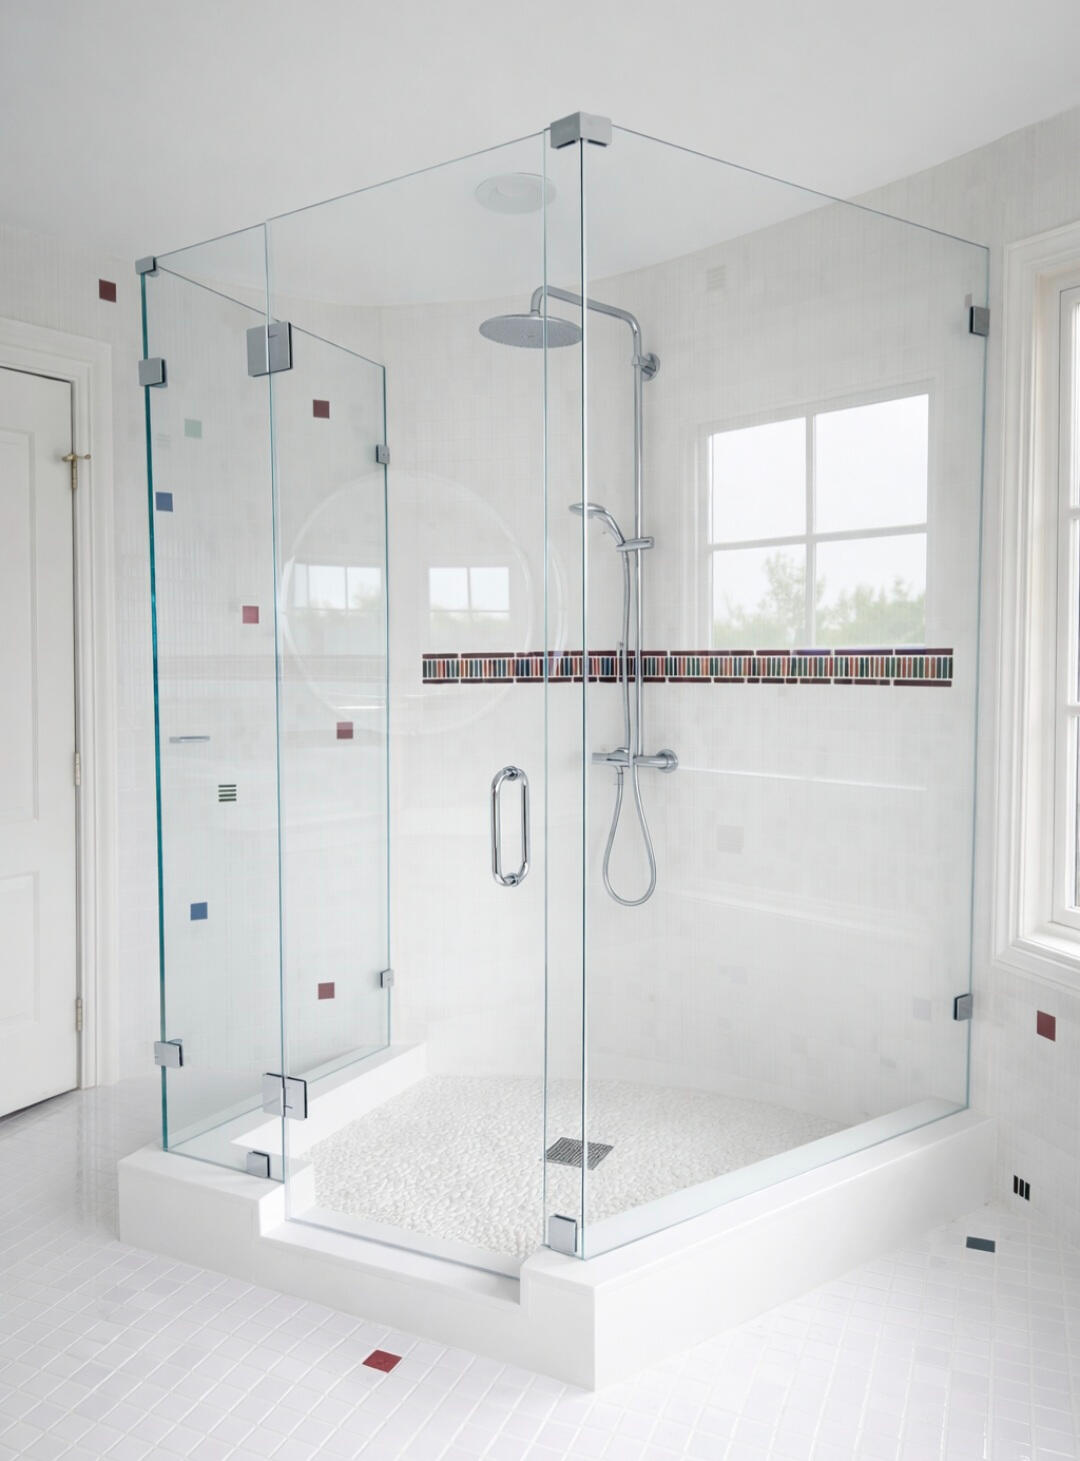
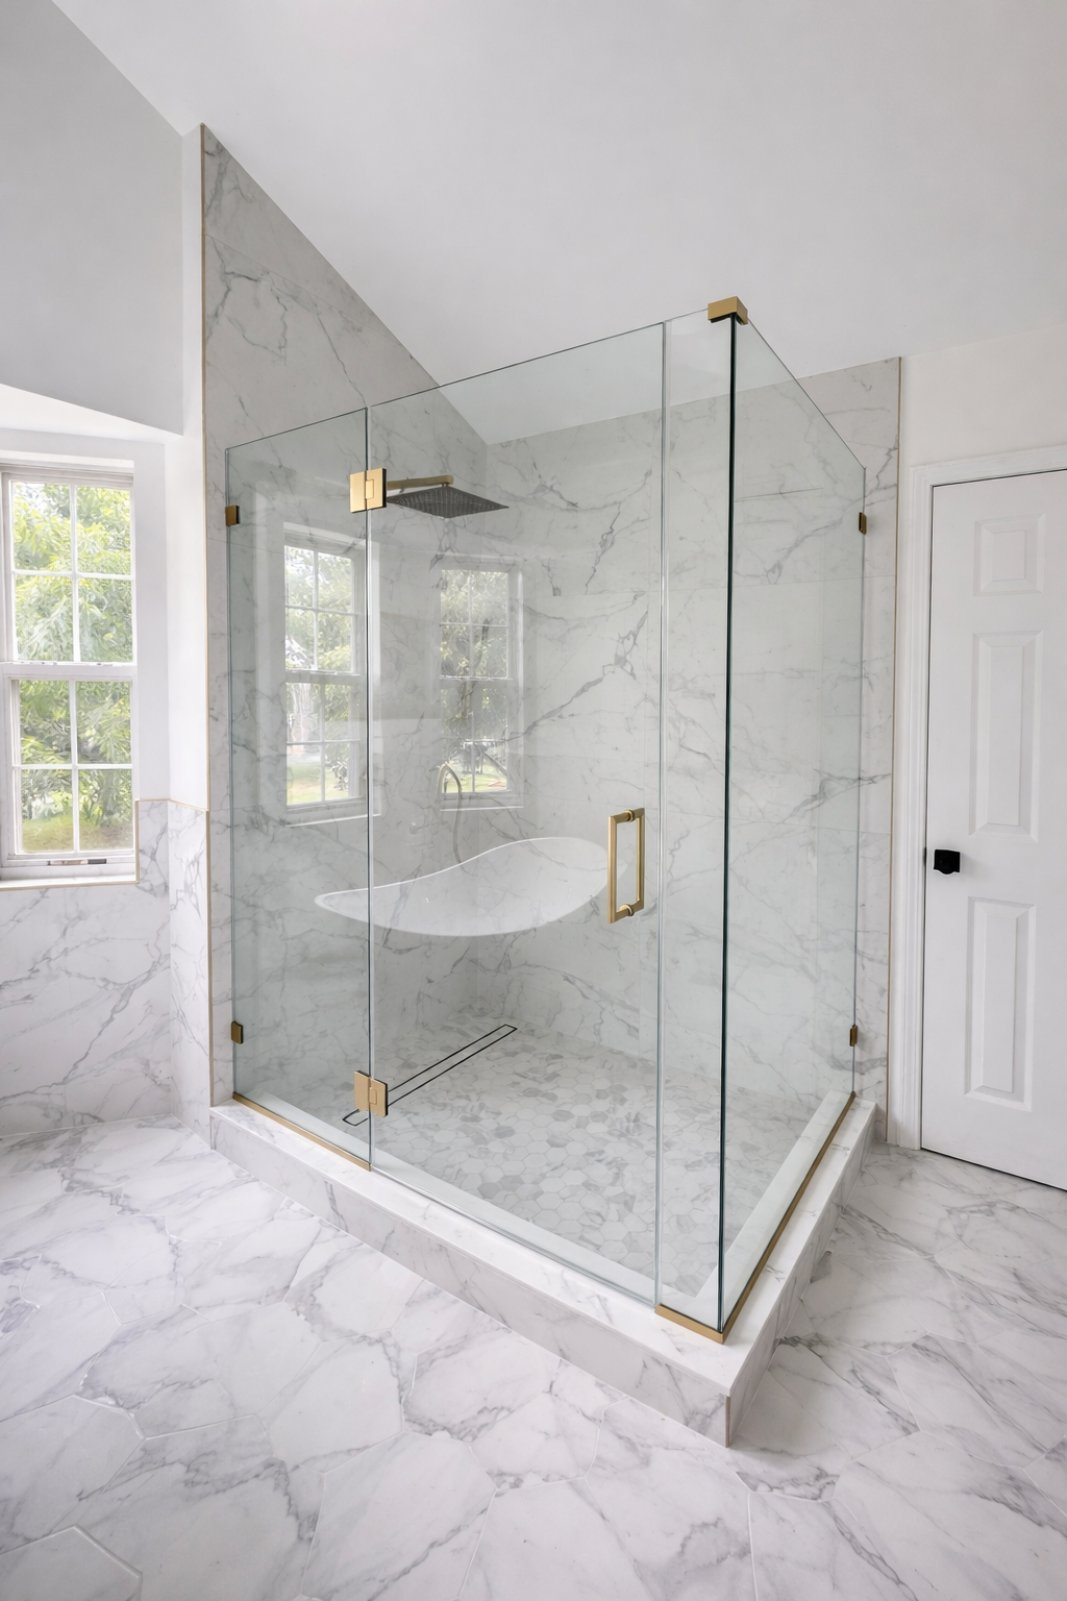
fix: removed dublicate and updated `about-us`

diff --git a/index.html b/index.html
@@ -48,7 +48,7 @@
             <p>Elevating New Jersey's finest residences with bespoke frameless shower enclosures. Precision engineering meets natural luxury.</p>
             <div class="hero-actions">
                 <a href="tel:[phone redacted]" class="btn-solid">Schedule Consultation</a>
-                <a href="mailto:[email redacted]" class="btn-outline">Request Portfolio</a>
+                <a href="mailto:[email redacted]" class="btn-outline">Request Free Quote</a>
             </div>
         </div>
     </header>
@@ -57,10 +57,11 @@
         <div class="about-container glass-panel">
             <h2 class="section-title">About Our Craft</h2>
             <div class="about-text">
-                <p>Custom Frameless Shower Doors in New JerseyProfessional Glass Installation & Free Estimates</p>
-                <p>Custom frameless shower door installation across NJ. Free estimate.</p>
-                <p>Crystal Vision Glass specializes in frameless shower doors, custom glass shower enclosures, and luxury shower glass installation across New Jersey.</p>
-                <p>Frameless Shower Door & Custom Glass Installation in New Jersey</p>
+                <p>Custom Frameless Shower Doors in New Jersey</p>
+                <p>At Crystal Vision Glass, we specialize in premium frameless shower doors and custom glass enclosures designed to elevate your space.</p>
+                <p>Every project is crafted with precision, using high-quality tempered glass and luxury hardware to deliver a clean, modern, and timeless look.</p>
+                <p>We provide professional installation across New Jersey with fast turnaround and free estimates.</p>
+                <p>Experience the difference of true craftsmanship and attention to detail.</p>
             </div>
         </div>
     </section>
@@ -120,8 +121,8 @@
         <div class="card glass-panel">
             <img src="images/glass_8.jpg" alt="Floor to ceiling glass steam shower" class="card-img" loading="lazy" decoding="async">
             <div class="card-overlay">
-                <h3>Full Steam Enclosure</h3>
-                <p>Floor-to-ceiling glass panels with a movable transom for steam ventilation. Vacuum-sealed for a spa-grade experience.</p>
+                <h3>The Heritage Gold Enclosure</h3>
+                <p>Bespoke frameless glass enclosures for modern bathrooms. Elevate your morning routine with a seamless design that maximizes light and spatial flow.</p>
             </div>
         </div>
 